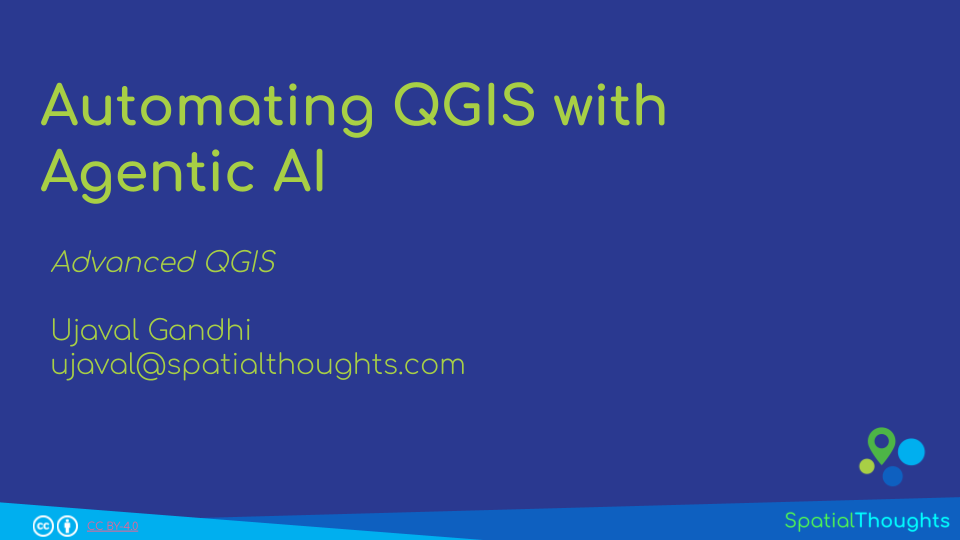
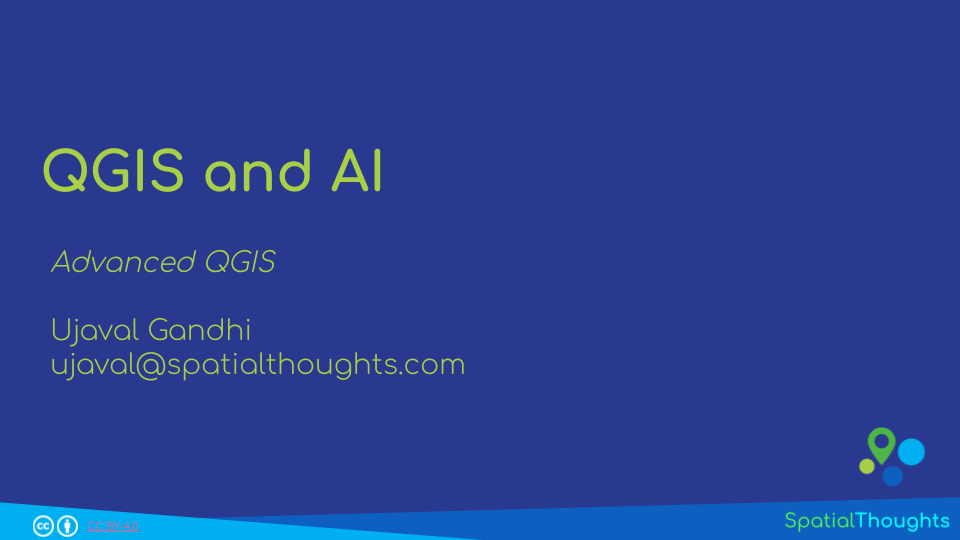
update

Changed region(s): [[0.0312, 0.1481, 0.7188, 0.3852]]

diff --git a/docs/advanced-qgis.html b/docs/advanced-qgis.html
@@ -551,20 +551,22 @@ id="toc-auto-populate-field-values">6.1 Auto-populate Field Values</a>
 <li><a href="#learn-more-2" id="toc-learn-more-2">6.2 Learn
 more</a></li>
 </ul></li>
-<li><a href="#useful-plugins" id="toc-useful-plugins">7. Useful
-Plugins</a></li>
-<li><a href="#automating-qgis-with-agentic-ai"
-id="toc-automating-qgis-with-agentic-ai">8. Automating QGIS with Agentic
-AI</a>
+<li><a href="#qgis-and-ai" id="toc-qgis-and-ai">7. QGIS and AI</a>
 <ul>
-<li><a href="#install-claude-code" id="toc-install-claude-code">8.1
+<li><a href="#setup-qgis-mcp-server" id="toc-setup-qgis-mcp-server">7.1
+Setup QGIS MCP Server</a>
+<ul>
+<li><a href="#install-claude-code" id="toc-install-claude-code">7.1.1
 Install Claude Code</a></li>
 <li><a href="#install-conda-and-setup-an-environment"
-id="toc-install-conda-and-setup-an-environment">8.2 Install Conda and
+id="toc-install-conda-and-setup-an-environment">7.1.2 Install Conda and
 Setup an Environment</a></li>
 <li><a href="#install-qgis-mcp-server"
-id="toc-install-qgis-mcp-server">8.3 Install QGIS MCP Server</a></li>
+id="toc-install-qgis-mcp-server">7.1.3 Install QGIS MCP Server</a></li>
 </ul></li>
+</ul></li>
+<li><a href="#useful-plugins" id="toc-useful-plugins">Useful
+Plugins</a></li>
 <li><a href="#supplement" id="toc-supplement">Supplement</a>
 <ul>
 <li><a href="#using-conditions-in-modeler"
@@ -2363,24 +2365,8 @@ alt="Watch the Video" /></a></p>
 target="_blank">Watch the Video ↗</a></p>
 </div>
 </div>
-<div id="useful-plugins" class="section level1">
-<h1>7. Useful Plugins</h1>
-<p><a
-href="https://docs.google.com/presentation/d/1T02HeNaCHdWD7TuDdy1IrcYycVshd4kDik1WR_11-58/edit?usp=sharing"
-target="_blank"><img src="images/advanced_qgis/plugins.png" width="400"
-alt="View Presentation" /></a></p>
-<p><a
-href="https://docs.google.com/presentation/d/1T02HeNaCHdWD7TuDdy1IrcYycVshd4kDik1WR_11-58/edit?usp=sharing"
-target="_blank">Google Slides ↗</a> <a
-href="https://github.com/spatialthoughts/courses/releases/download/presentations/Advanced_QGIS_Useful_Plugins.pdf">PDF
-↗</a></p>
-</div>
-<div id="automating-qgis-with-agentic-ai" class="section level1">
-<h1>8. Automating QGIS with Agentic AI</h1>
-<p>You can use the QGIS MCP Server and connect QGIS to an AI Agent. This
-allows the AI agent to access and control QGIS programmatically. In this
-section, you will learn how to set up the QGIS MCP server and use it to
-carry out advanced analysis.</p>
+<div id="qgis-and-ai" class="section level1">
+<h1>7. QGIS and AI</h1>
 <p><a
 href="https://docs.google.com/presentation/d/17jpGWy48saj-CXX0mDzCf_exyK-fxgd45MFqjXhIsqo/edit?usp=sharing"
 target="_blank"><img src="images/advanced_qgis/agentic_ai.png"
@@ -2388,10 +2374,16 @@ width="400" alt="View Presentation" /></a></p>
 <p><a
 href="https://docs.google.com/presentation/d/17jpGWy48saj-CXX0mDzCf_exyK-fxgd45MFqjXhIsqo/edit?usp=sharing"
 target="_blank">Google Slides ↗</a> <a
-href="https://github.com/spatialthoughts/courses/releases/download/presentations/Advanced_QGIS_Agentic_AI.pdf">PDF
+href="https://github.com/spatialthoughts/courses/releases/download/presentations/Advanced_QGIS_AI.pdf">PDF
 ↗</a></p>
-<div id="install-claude-code" class="section level2">
-<h2>8.1 Install Claude Code</h2>
+<div id="setup-qgis-mcp-server" class="section level2">
+<h2>7.1 Setup QGIS MCP Server</h2>
+<p>You can use the QGIS MCP Server and connect QGIS to an AI Agent. This
+allows the AI agent to access and control QGIS programmatically. In this
+section, you will learn how to set up the QGIS MCP server and use it to
+carry out advanced analysis.</p>
+<div id="install-claude-code" class="section level3">
+<h3>7.1.1 Install Claude Code</h3>
 <p>Follow our step-by-step <a
 href="https://courses.spatialthoughts.com/install-claude-code.html">Claude
 Code Installation Guide</a> to sign-up for a Claude subscription and
@@ -2401,8 +2393,8 @@ but it is possible to use any supported Coding Agent. If you already
 have a subscription to other Agent harnesses (OpenAI Codex, Gemini CLI,
 OpenCode, …) you may use that instead.</p>
 </div>
-<div id="install-conda-and-setup-an-environment" class="section level2">
-<h2>8.2 Install Conda and Setup an Environment</h2>
+<div id="install-conda-and-setup-an-environment" class="section level3">
+<h3>7.1.2 Install Conda and Setup an Environment</h3>
 <p>We will use conda to install the required Python packages and manage
 local development environments.</p>
 <p>Follow our step-by-step <a href="install-conda.html">Conda
@@ -2416,8 +2408,8 @@ class="sourceCode bash"><code class="sourceCode bash"><span id="cb15-1"><a href=
 <span id="cb15-2"><a href="#cb15-2" tabindex="-1"></a><span class="ex">conda</span> activate qgis_mcp</span>
 <span id="cb15-3"><a href="#cb15-3" tabindex="-1"></a><span class="ex">conda</span> install <span class="at">-c</span> conda-forge uv geopandas matplotlib</span></code></pre></div>
 </div>
-<div id="install-qgis-mcp-server" class="section level2">
-<h2>8.3 Install QGIS MCP Server</h2>
+<div id="install-qgis-mcp-server" class="section level3">
+<h3>7.1.3 Install QGIS MCP Server</h3>
 <p>The QGIS MCP server allows you to connect Claude Code to QGIS and
 provides tools to add layers, edit features, call processing algorithms
 and more. Configuring the MCP server is a two-step process:</p>
@@ -2508,6 +2500,19 @@ message.</li>
 <pre><code>ping qgis</code></pre>
 <p><img src="images/advanced_qgis/qgismcp11.png" width="75%" style="display: block; margin: auto;" /></p>
 </div>
+</div>
+</div>
+<div id="useful-plugins" class="section level1">
+<h1>Useful Plugins</h1>
+<p><a
+href="https://docs.google.com/presentation/d/1T02HeNaCHdWD7TuDdy1IrcYycVshd4kDik1WR_11-58/edit?usp=sharing"
+target="_blank"><img src="images/advanced_qgis/plugins.png" width="400"
+alt="View Presentation" /></a></p>
+<p><a
+href="https://docs.google.com/presentation/d/1T02HeNaCHdWD7TuDdy1IrcYycVshd4kDik1WR_11-58/edit?usp=sharing"
+target="_blank">Google Slides ↗</a> <a
+href="https://github.com/spatialthoughts/courses/releases/download/presentations/Advanced_QGIS_Useful_Plugins.pdf">PDF
+↗</a></p>
 </div>
 <div id="supplement" class="section level1">
 <h1>Supplement</h1>
